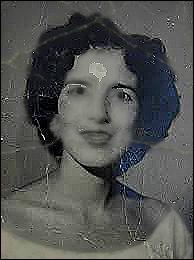
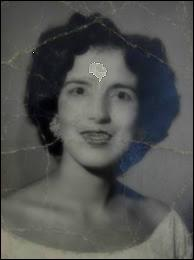
Added a function to see the feathered mask

diff --git a/GO/restoration/smooth.go b/GO/restoration/smooth.go
@@ -22,52 +22,52 @@ func ApplySmoothing(img image.Image) image.Image {
 
 func PostProcessSharpen(img image.Image) image.Image {
     bounds := img.Bounds()
-    sharpenedImage := image.NewRGBA(bounds)
+	sharpenedImage := image.NewRGBA(bounds)
 
-    kernel := [][]float64{
-        {0, -1, 0},
-        {-1, 5, -1},
-        {0, -1, 0},
-    }
+	kernel := [][]float64{
+		{0, -1, 0},
+		{-1, 5, -1},
+		{0, -1, 0},
+	}
 
-    offset := len(kernel) / 2
+	offset := len(kernel) / 2
 
-    for y := bounds.Min.Y + offset; y < bounds.Max.Y-offset; y++ {
-        for x := bounds.Min.X + offset; x < bounds.Max.X-offset; x++ {
-            var r, g, b float64
-            for ky := -offset; ky <= offset; ky++ {
-                for kx := -offset; kx <= offset; kx++ {
-                    nx := x + kx
-                    ny := y + ky
+	for y := bounds.Min.Y + offset; y < bounds.Max.Y-offset; y++ {
+		for x := bounds.Min.X + offset; x < bounds.Max.X-offset; x++ {
+			var r, g, b float64
+			for ky := -offset; ky <= offset; ky++ {
+				for kx := -offset; kx <= offset; kx++ {
+					nx := x + kx
+					ny := y + ky
 
-                    px := img.At(nx, ny)
-                    pr, pg, pb, _ := px.RGBA()
-                    weight := kernel[ky+offset][kx+offset]
-                    r += float64(pr) * weight
-                    g += float64(pg) * weight
-                    b += float64(pb) * weight
-                }
-            }
+					px := img.At(nx, ny)
+					pr, pg, pb, _ := px.RGBA()
+					weight := kernel[ky+offset][kx+offset]
+					r += float64(pr) * weight
+					g += float64(pg) * weight
+					b += float64(pb) * weight
+				}
+			}
 
-            clamp := func(value float64) uint8 {
-                if value < 0 {
-                    return 0
-                } else if value > 255*256 {
-                    return 255
-                }
-                return uint8(value / 256)
-            }
+			clamp := func(value float64) uint8 {
+				if value < 0 {
+					return 0
+				} else if value > 255*256 {
+					return 255
+				}
+				return uint8(value / 256)
+			}
 
-            sharpenedImage.Set(x, y, color.RGBA{
-                R: clamp(r),
-                G: clamp(g),
-                B: clamp(b),
-                A: 255,
-            })
-        }
-    }
+			sharpenedImage.Set(x, y, color.RGBA{
+				R: clamp(r),
+				G: clamp(g),
+				B: clamp(b),
+				A: 255,
+			})
+		}
+	}
 
-    return sharpenedImage
+	return sharpenedImage
 }
 
 // Gaussian blurr for smoothing and then image sharpening 

diff --git a/GO/restoration/mask.go b/GO/restoration/mask.go
@@ -62,31 +62,49 @@ func CreateMask(img image.Image, outputPath string) ([][]float64, error) {
 
 func FeatherMask(mask [][]float64, radius int, edgeMask [][]float64) [][]float64 {
     height := len(mask)
-    width := len(mask[0])
-    feathered := make([][]float64, height)
-    for y := range feathered {
-        feathered[y] = make([]float64, width)
-    }
+	width := len(mask[0])
+	feathered := make([][]float64, height)
+	for y := range feathered {
+		feathered[y] = make([]float64, width)
+	}
 
+	for y := 0; y < height; y++ {
+		for x := 0; x < width; x++ {
+			if mask[y][x] > 0 {
+				feathered[y][x] = 1.0
+				for dy := -radius; dy <= radius; dy++ {
+					for dx := -radius; dx <= radius; dx++ {
+						nx, ny := x+dx, y+dy
+						if nx >= 0 && nx < width && ny >= 0 && ny < height {
+							distance := float64(dx*dx + dy*dy)
+							weight := math.Exp(-distance / float64(radius*radius)) * (1.0 - edgeMask[ny][nx])
+							feathered[ny][nx] = math.Max(feathered[ny][nx], weight)
+						}
+					}
+				}
+			}
+		}
+	}
+	return feathered
+}
+
+func SaveFeatheredMask(feathered [][]float64, outputPath string) error {
+    height := len(feathered)
+    width := len(feathered[0])
+    featheredImg := image.NewGray(image.Rect(0, 0, width, height))
     for y := 0; y < height; y++ {
         for x := 0; x < width; x++ {
-            if mask[y][x] > 0 {
-                feathered[y][x] = 1.0
-                for dy := -radius; dy <= radius; dy++ {
-                    for dx := -radius; dx <= radius; dx++ {
-                        nx, ny := x+dx, y+dy
-                        if nx >= 0 && nx < width && ny >= 0 && ny < height {
-                            distance := float64(dx*dx + dy*dy)
-                            weight := math.Exp(-distance / float64(radius*radius))
-                            // Include edge penalty to preserve details
-                            weight *= 1.0 - edgeMask[ny][nx]
-                            feathered[ny][nx] = math.Max(feathered[ny][nx], weight)
-                        }
-                    }
-                }
-            }
+            intensity := uint8(feathered[y][x] * 255) // Normalize to [0, 255]
+            featheredImg.SetGray(x, y, color.Gray{Y: intensity})
         }
     }
-    return feathered
+    file, err := os.Create(outputPath)
+    if err != nil {
+        return err
+    }
+    defer file.Close()
+    return jpeg.Encode(file, featheredImg, nil)
 }
+
+
 

diff --git a/GO/restoration/process.go b/GO/restoration/process.go
@@ -19,7 +19,7 @@ func GetBlendedColorWithEdges(img image.Image, mask [][]float64, edges [][]float
 			if nx >= 0 && nx < width && ny >= 0 && ny < height && mask[ny][nx] < 1.0 {
 				c := img.At(nx, ny)
 				r, g, b, _ := c.RGBA()
-				edgeWeight := 1.0 - edges[ny][nx] // Reduce blending in strong edge areas
+				edgeWeight := 1.0 - edges[ny][nx]
 				distance := float64(dx*dx + dy*dy)
 				weight := edgeWeight / (1.0 + distance)
 				sumR += float64(r) * weight
@@ -31,7 +31,6 @@ func GetBlendedColorWithEdges(img image.Image, mask [][]float64, edges [][]float
 	}
 
 	if weightSum == 0 {
-		// Return the original pixel if no valid neighbors
 		original := img.At(x, y)
 		r, g, b, _ := original.RGBA()
 		return color.RGBA{R: uint8(r / 256), G: uint8(g / 256), B: uint8(b / 256), A: 255}
@@ -44,6 +43,7 @@ func GetBlendedColorWithEdges(img image.Image, mask [][]float64, edges [][]float
 		A: 255,
 	}
 }
+
 
 // Inpaint colors the white lines and stains in an image with the median color of surrounding pixels.
 func InpaintWithEdges(img image.Image, mask [][]float64, edges [][]float64) *image.RGBA {

diff --git a/GO/main.go b/GO/main.go
@@ -72,7 +72,12 @@ func main() {
 	edgeMask := restoration.EdgeDetection(img)
 
 	// Feather the mask
-	featheredMask := restoration.FeatherMask(mask, 5, edgeMask)
+	featheredMask := restoration.FeatherMask(mask, 50, edgeMask)
+
+	err = restoration.SaveFeatheredMask(featheredMask, "feathered_mask.jpg")
+	if err != nil {
+		log.Fatalf("Error saving feathered mask: %v\n", err)
+	}
 
 	// Apply scratch removal with edges
 	restoredImg := restoration.InpaintWithEdges(img, featheredMask, edgeMask)

diff --git a/GO/restoration/edge.go b/GO/restoration/edge.go
@@ -48,10 +48,14 @@ func EdgeDetection(img image.Image) [][]float64 {
 		}
 	}
 
-	// Normalize edges to [0, 1]
+	// Normalize and apply threshold
+	threshold := 0.2 // Do more tests to find good value
 	for y := 0; y < height; y++ {
 		for x := 0; x < width; x++ {
 			edges[y][x] /= maxGradient
+			if edges[y][x] < threshold {
+				edges[y][x] = 0.0
+			}
 		}
 	}
 
